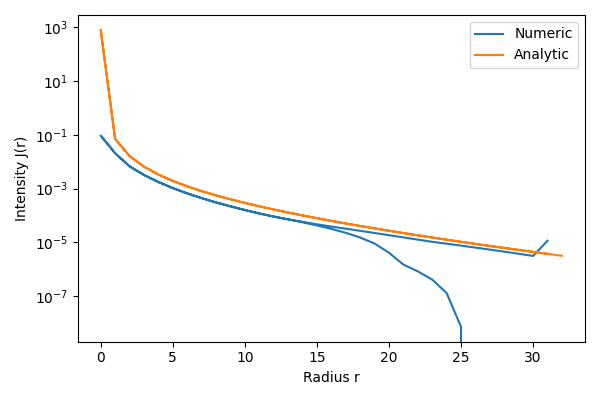
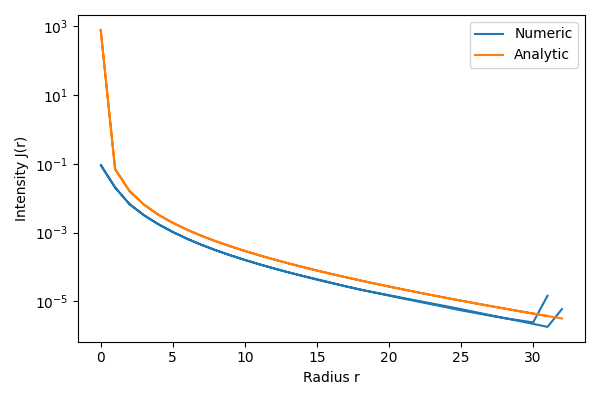
now 3D works, still memory issues and more tests needed

diff --git a/example_ray_trax_3D.py b/example_ray_trax_3D.py
@@ -1,0 +1,88 @@
+import os
+os.environ["CUDA_VISIBLE_DEVICES"] = "0"
+
+import sys
+import jax
+import jax.numpy as jnp
+from jax import random
+import matplotlib.pyplot as plt
+
+
+
+from ray_trax.create_turbulent_3D import generate_correlated_lognormal_field_3D
+from ray_trax.ray_trax_3D import compute_radiation_field_from_multiple_sources
+from ray_trax.utils import gaussian_emissivity
+import time
+
+
+# Config
+Nx, Ny, Nz = 64, 64, 64
+key = random.PRNGKey(42)
+
+# Generate absorption field and mask
+kappa, mask = generate_correlated_lognormal_field_3D(
+    key, shape=(Nx, Ny, Nz),
+    mean=1.0, length_scale=0.05,
+    sigma_g=1.2, percentile=99
+)
+
+
+
+# Get star positions
+star_indices = jnp.argwhere(mask)
+star_positions = star_indices.astype(jnp.float32) + 0.5
+
+# Create emissivity field
+emissivity = jnp.zeros((Nx, Ny))
+for pos in star_positions:
+    emissivity += gaussian_emissivity(Nx, Ny, Nz, center=pos, amplitude=1e3, width=5.0)
+
+# Ray tracing
+tstart = time.time()
+J_multi = compute_radiation_field_from_multiple_sources(
+    emissivity, kappa, star_positions,
+    num_rays=4000, step_size=0.5, max_steps=400
+)
+tend = time.time()
+print("Total time: ", tend - tstart)
+
+output_dir = 'plots_3d'
+
+# Select slices to plot
+mid_x = Nx // 2
+mid_y = Ny // 2
+mid_z = Nz // 2
+
+# Plot x-y plane at fixed z
+plt.figure(figsize=(6, 5))
+plt.imshow(jnp.log10(J_multi[:, :, mid_z] + 1e-6), origin='lower', cmap='inferno')
+plt.title(f"X-Y plane at Z={mid_z}")
+plt.xlabel("X")
+plt.ylabel("Y")
+plt.colorbar(label="log10(Intensity)")
+plt.tight_layout()
+plt.savefig(os.path.join(output_dir, 'xy_plane.png'))
+plt.close()
+
+# Plot x-z plane at fixed y
+plt.figure(figsize=(6, 5))
+plt.imshow(jnp.log10(J_multi[:, mid_y, :] + 1e-6), origin='lower', cmap='inferno', aspect=Nz/Nx)
+plt.title(f"X-Z plane at Y={mid_y}")
+plt.xlabel("X")
+plt.ylabel("Z")
+plt.colorbar(label="log10(Intensity)")
+plt.tight_layout()
+plt.savefig(os.path.join(output_dir, 'xz_plane.png'))
+plt.close()
+
+# Plot y-z plane at fixed x
+plt.figure(figsize=(6, 5))
+plt.imshow(jnp.log10(J_multi[mid_x, :, :] + 1e-6), origin='lower', cmap='inferno', aspect=Nz/Ny)
+plt.title(f"Y-Z plane at X={mid_x}")
+plt.xlabel("Y")
+plt.ylabel("Z")
+plt.colorbar(label="log10(Intensity)")
+plt.tight_layout()
+plt.savefig(os.path.join(output_dir, 'yz_plane.png'))
+plt.close()
+

diff --git a/test_analytic_3D.py b/test_analytic_3D.py
@@ -1,5 +1,5 @@
 import os
-os.environ["CUDA_VISIBLE_DEVICES"] = "5"
+os.environ["CUDA_VISIBLE_DEVICES"] = "0"
 
 import jax
 import jax.numpy as jnp
@@ -29,7 +29,7 @@ J_numeric = compute_radiation_field_from_source(
     emissivity,
     kappa,
     source_pos=source_pos,
-    num_rays=2000,
+    num_rays=8000,
     step_size=0.5,
     max_steps=400
 )
